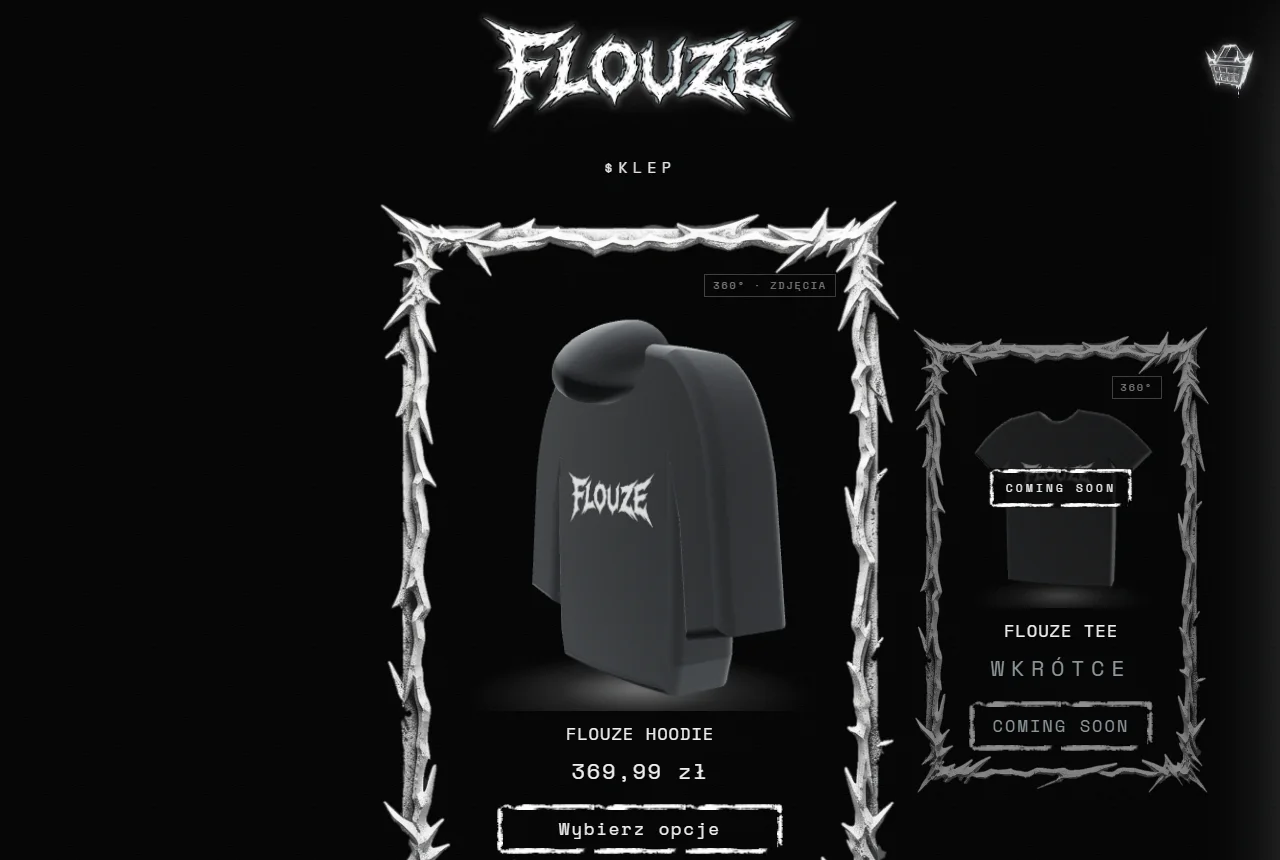
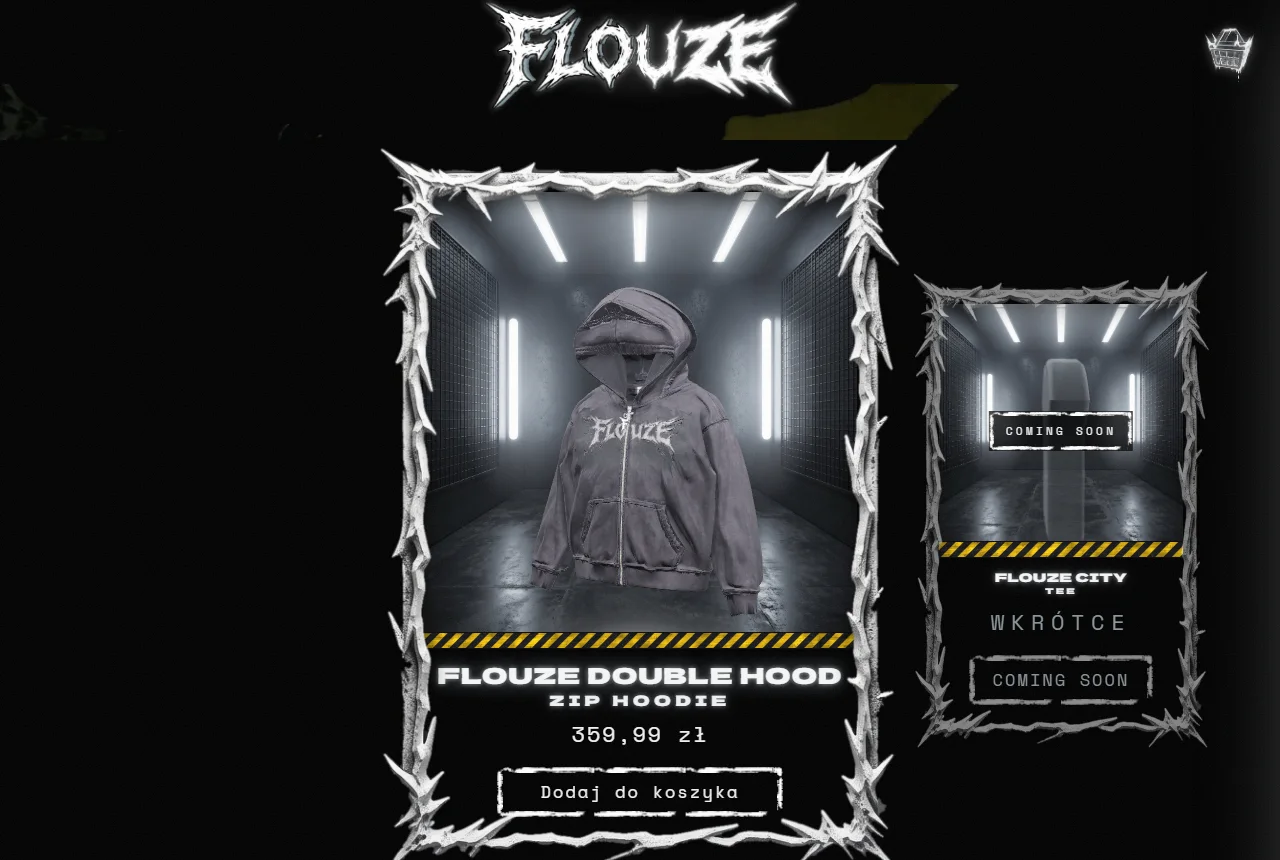
Karta Flouze: link do flouze.pl + nowy podglad

diff --git a/index.html b/index.html
@@ -110,8 +110,8 @@
         <div class="ss-demo-view"><iframe src="https://pao-elite.pl/" loading="lazy" tabindex="-1" scrolling="no" title="Demo PAO Elite"></iframe></div>
         <div class="ss-demo-body"><span class="ss-ptag">Budownictwo · usługi</span><h3>PAO Elite - elewacje i dachy</h3><p>Strona firmy remontowej z wideo w tle, czytelną ofertą i sekcją realizacji. Oleśnica i Dolny Śląsk.</p><span class="ss-more">Zobacz demo →</span></div>
       </a>
-      <a class="ss-demo ss-demo-img reveal" href="https://flouze.164.132.243.94.sslip.io/" target="_blank" rel="noopener">
-        <div class="ss-demo-bar"><i></i><i></i><i></i><em>flouze · sklep na żywo</em></div>
+      <a class="ss-demo ss-demo-img reveal" href="https://flouze.pl/" target="_blank" rel="noopener">
+        <div class="ss-demo-bar"><i></i><i></i><i></i><em>flouze.pl</em></div>
         <div class="ss-demo-view"><img src="demo/flouze/podglad.webp" alt="Podgląd sklepu Flouze" loading="lazy" width="1280" height="860"></div>
         <div class="ss-demo-body"><span class="ss-ptag">Marka odzieżowa · e-commerce</span><h3>Flouze - sklep marki streetwear</h3><p>Sklep z modelami 3D produktów, koszykiem, animowanym intro i panelem do samodzielnej edycji treści.</p><span class="ss-more">Zobacz demo →</span></div>
       </a>
